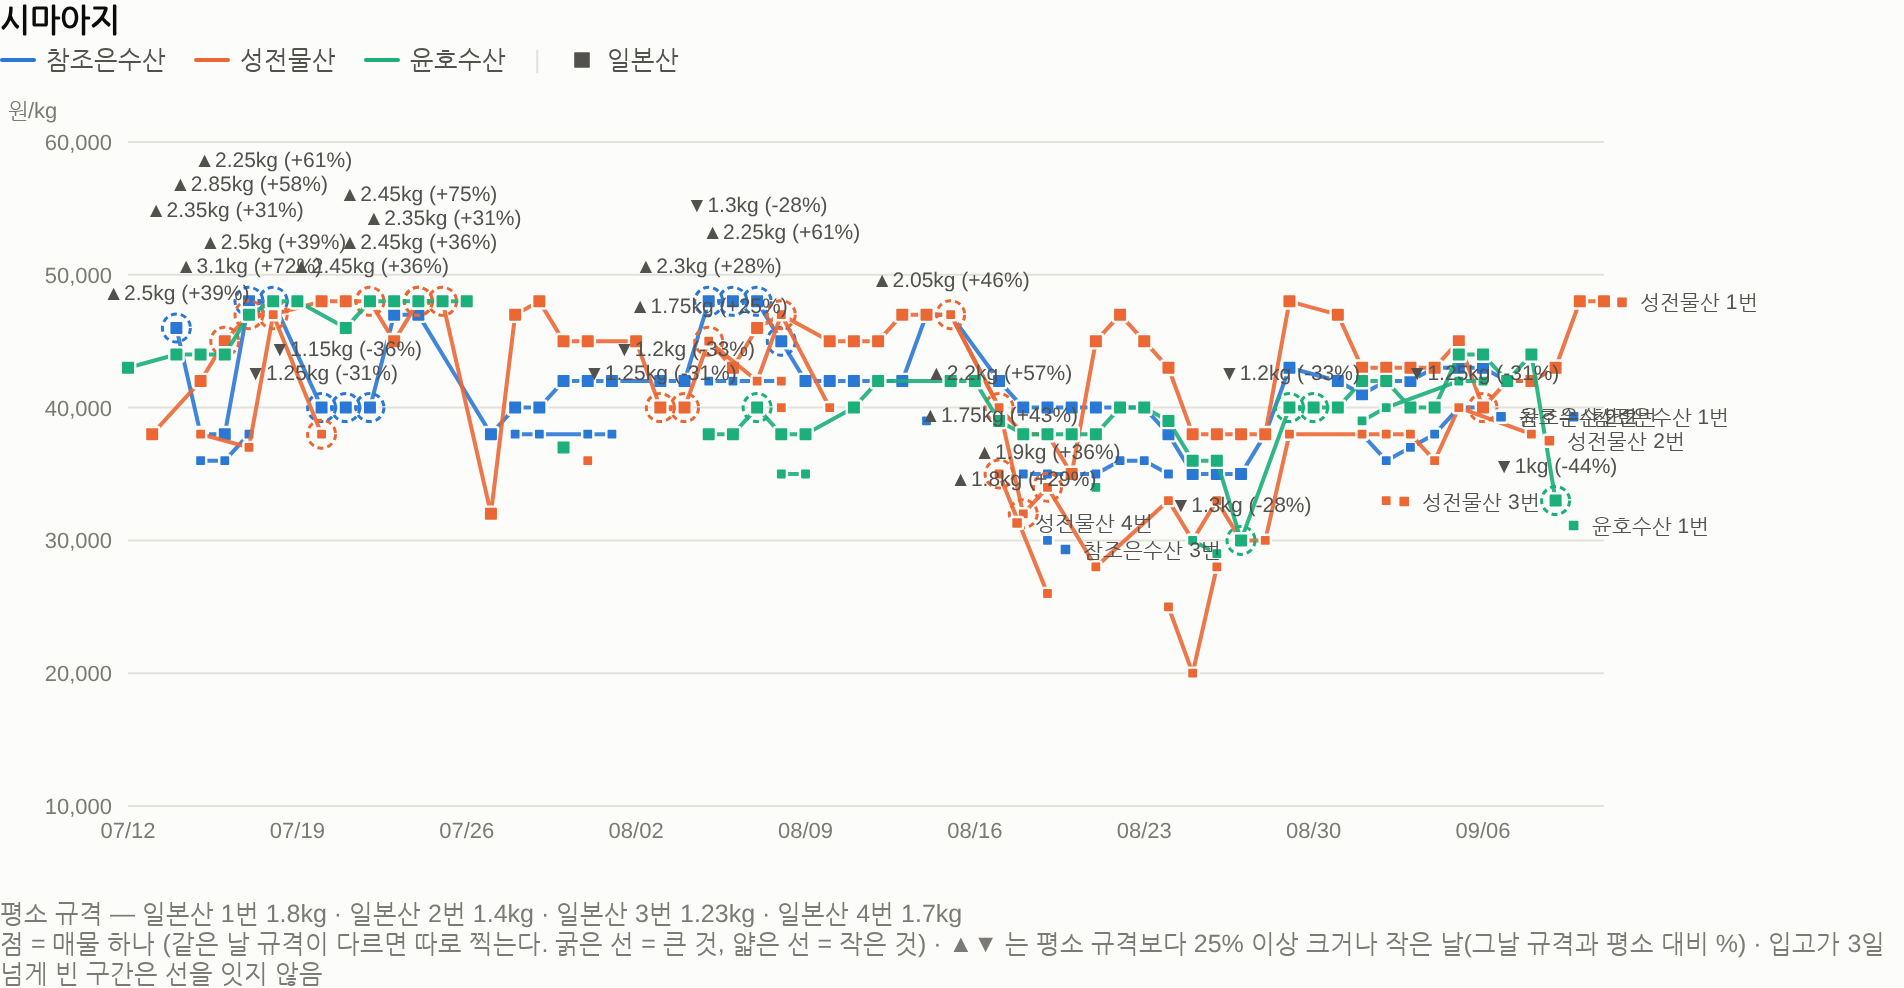
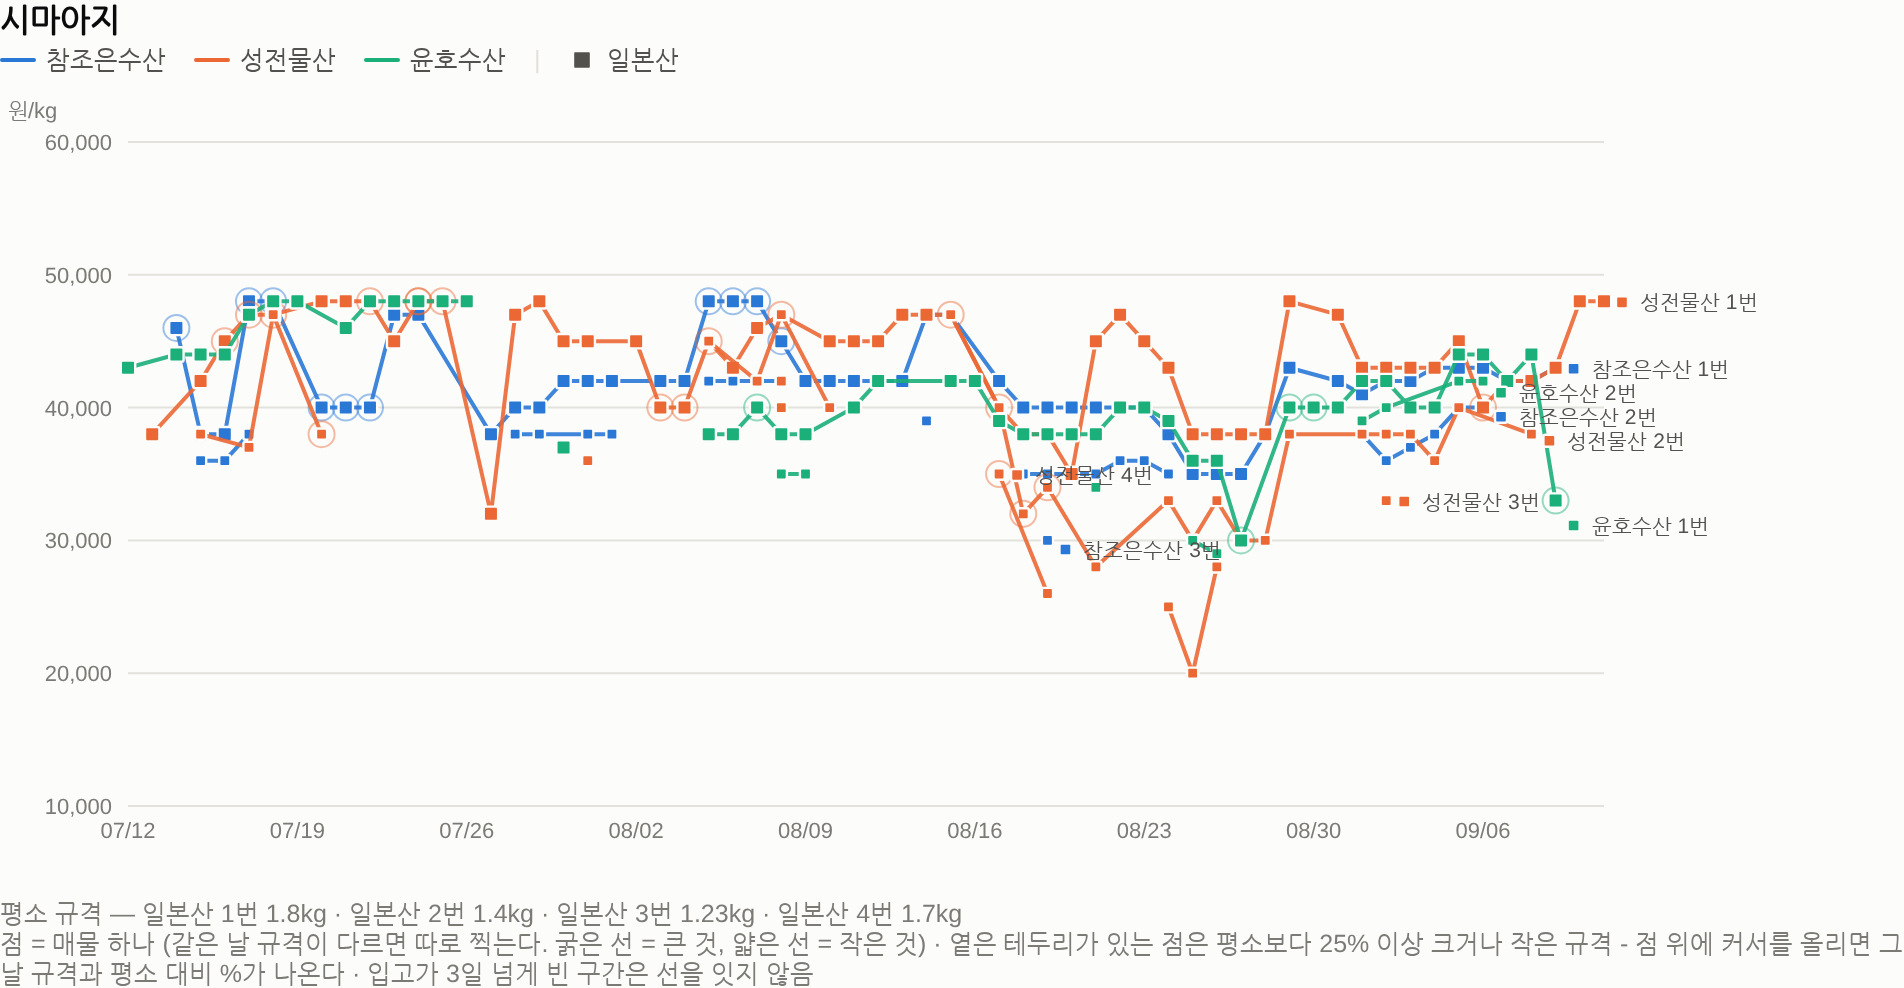
차트 정리: 규격 화살표 제거, hover 로 확인

diff --git a/index.html b/index.html
@@ -157,7 +157,7 @@ function draw(){
     const t=el("text",{x:xs(d),y:H-M.b+16,"text-anchor":"middle",fill:"var(--text-muted)","font-size":11});
     t.textContent=d.slice(5).replace("-","/");svg.appendChild(t);});
 
-  const ends=[], tags=[];
+  const ends=[];
   const multiOrigin=new Set(lines.map(l=>l.origin)).size>1;
   lines.forEach(L=>{
     const c=COLOR[L.shop], sh=SHAPE[L.origin]||"circle";
@@ -170,36 +170,20 @@ function draw(){
     L.pts.forEach((p,i)=>{ if(i&&DATES.indexOf(p.d)-DATES.indexOf(L.pts[i-1].d)>GAP) flush();
       seg.push(p); });
     flush();
-    let lastTag=null;
     L.pts.forEach(p=>{
       svg.appendChild(mark(xs(p.d),ys(p.p),sh,c,L.wild,mr));
-      if(p.flag){
-        svg.appendChild(el("circle",{cx:xs(p.d),cy:ys(p.p),r:7,fill:"none",stroke:c,
-          "stroke-width":1.5,"stroke-dasharray":"3 2"}));
-        const tag=p.flag+p.size;
-        if(tag!==lastTag) tags.push({x:xs(p.d),y:ys(p.p)-14,
-          txt:(p.flag==="big"?"▲":"▼")+p.size+s.unit
-              +(p.dev!=null?" ("+(p.dev>0?"+":"")+Math.round(p.dev)+"%)":"")});
-        lastTag=tag;
-      } else lastTag=null;
+      // 규격이 평소와 많이 다른 날: 옅은 테두리만 두고 숫자는 tooltip 에서 본다
+      if(p.flag)
+        svg.appendChild(el("circle",{cx:xs(p.d),cy:ys(p.p),r:6.5,fill:"none",
+          stroke:c,"stroke-width":1,opacity:.45}));
     });
     const last=L.pts[L.pts.length-1];
     ends.push({L,x:xs(last.d)+18,y:ys(last.p)+4,c,sh,mx:xs(last.d)+9});
   });
-  // 규격 라벨끼리 겹치면 위로 밀어 올린다(가로로 가까운 것만 비교)
-  const placed=[];
-  tags.forEach(t=>{
-    let y=t.y, guard=0;
-    while(guard++<12 && placed.some(q=>Math.abs(q.x-t.x)<58 && Math.abs(q.y-y)<12)) y-=12;
-    placed.push({x:t.x,y});
-    const e=el("text",{x:t.x,y:y,"text-anchor":"middle",fill:"var(--text-secondary)",
-      "font-size":10.5}); e.textContent=t.txt; svg.appendChild(e);
-  });
   ends.sort((a,b)=>a.y-b.y);
   for(let i=1;i<ends.length;i++) if(ends[i].y-ends[i-1].y<12) ends[i].y=ends[i-1].y+12;
   // 끝 라벨이 규격 라벨과 겹치면 아래로 비킨다(규격 라벨을 먼저 배치했다)
-  ends.forEach(e=>{ let guard=0;
-    while(guard++<10 && placed.some(q=>Math.abs(q.x-e.x)<62 && Math.abs(q.y-e.y)<12)) e.y+=12; });
+
   // 끝 라벨은 그 선을 구분해주는 것만 적는다. 원산지가 하나뿐인 차트에서
   // "일본산"을 세 번 적으면 정보가 0이므로 그때는 가게 이름을 적는다.
   const variants=new Set(lines.map(l=>[l.origin,l.wild?"자연산":"",l.region]
@@ -233,8 +217,8 @@ function draw(){
   document.getElementById("note").textContent=
     ((typ.length && !MOBILE)? "평소 규격 — "+typ.join(" · ")+"\n":"")
     + "점 = 매물 하나 (같은 날 규격이 다르면 따로 찍는다. 굵은 선 = 큰 것, 얇은 선 = 작은 것)"
-    + " · ▲▼ 는 평소 규격보다 25% 이상 크거나 작은 날(그날 규격과 평소 대비 %)"
-    + " · 입고가 3일 넘게 빈 구간은 선을 잇지 않음";
+    + " · 옅은 테두리가 있는 점은 평소보다 25% 이상 크거나 작은 규격 - 점 위에 커서를 올리면"
+    + " 그날 규격과 평소 대비 %가 나온다 · 입고가 3일 넘게 빈 구간은 선을 잇지 않음";
 
   const hair=el("line",{y1:M.t,y2:M.t+ih,stroke:"var(--text-muted)","stroke-width":1,opacity:0});
   svg.appendChild(hair);
@@ -259,9 +243,11 @@ function draw(){
       n.textContent=L.label+(p.sold?" · 마감":"");
       row.append(k,v,n); tip.appendChild(row);
       if(p.size){ const sz=document.createElement("div"); sz.className="sub";
-        sz.textContent="규격 "+p.size+s.unit
+        const mark2=p.flag==="big"?"▲ ":p.flag==="small"?"▼ ":"";
+        sz.textContent=mark2+"규격 "+p.size+s.unit
           +(L.typical? " · 평소 "+L.typical+s.unit:"")
           +(p.dev!=null? " ("+(p.dev>0?"+":"")+Math.round(p.dev)+"%)":"");
+        if(p.flag) sz.style.color="var(--text-primary)";
         tip.appendChild(sz); }
       p.list.forEach(L2=>{const sd=document.createElement("div"); sd.className="sub";
         sd.textContent=[L2.v,L2.s,won(L2.p)+"원"+(L2.so?" 마감":"")].filter(Boolean).join(" · ");
